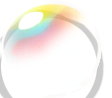
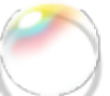
Collision of candy and bubble work

diff --git a/src/World.cpp b/src/World.cpp
@@ -77,7 +77,7 @@ void World::handleCollisions()
 			}
 			if(this->checkCollision(m_gameObjects[index1], m_gameObjects[index2]))
 			{
-				auto collisionsFunc = lookup(typeid(m_gameObjects[index1]), typeid(m_gameObjects[index2]));
+				auto collisionsFunc = lookup(typeid(*m_gameObjects[index1]), typeid(*m_gameObjects[index2]));
 
 				if (collisionsFunc != nullptr)
 				{
@@ -93,22 +93,38 @@ bool World::checkCollision(std::shared_ptr<GameObject> object1, std::shared_ptr<
 	b2Body* bodyA = object1->getBody();
 	b2Body* bodyB = object2->getBody();
 
-
 	if (bodyA && bodyB)
 	{
-		for (b2ContactEdge* edge = bodyA->GetContactList(); edge; edge = edge->next) {
+		// Check contacts of bodyA
+		for (b2ContactEdge* edge = bodyA->GetContactList(); edge; edge = edge->next)
+		{
 			b2Contact* contact = edge->contact;
 			b2Body* contactBodyA = contact->GetFixtureA()->GetBody();
 			b2Body* contactBodyB = contact->GetFixtureB()->GetBody();
 
-			// Use the helper function to check if the bodies are in contact
-			if (isContactBetween(contactBodyA, contactBodyB, bodyA, bodyB)) {
+			if ((contactBodyA == bodyA && contactBodyB == bodyB) || (contactBodyA == bodyB && contactBodyB == bodyA))
+			{
+				return true;
+			}
+		}
+
+		// Check contacts of bodyB
+		for (b2ContactEdge* edge = bodyB->GetContactList(); edge; edge = edge->next)
+		{
+			b2Contact* contact = edge->contact;
+			b2Body* contactBodyA = contact->GetFixtureA()->GetBody();
+			b2Body* contactBodyB = contact->GetFixtureB()->GetBody();
+
+			if ((contactBodyA == bodyA && contactBodyB == bodyB) || (contactBodyA == bodyB && contactBodyB == bodyA))
+			{
 				return true;
 			}
 		}
 	}
+
 	return false;
 }
+
 
 bool World::isContactBetween(b2Body* body1, b2Body* body2, b2Body* checkBodyA, b2Body* checkBodyB) {
 	return (body1 == checkBodyA && body2 == checkBodyB) || (body1 == checkBodyB && body2 == checkBodyA);

diff --git a/src/GameObjects/Bubble.cpp b/src/GameObjects/Bubble.cpp
@@ -5,9 +5,9 @@ Bubble::Bubble(const Data& ObjectData, b2World& world, const sf::Texture& textur
     //TODO CHANGE SETTINGS IF NEEDED
 
     this->m_bodyDef.type = b2_staticBody; // Set the body type to dynamic
-    this->m_bodyDef.position.Set(ObjectData.m_pos.x / SCALE , ObjectData.m_pos.y / SCALE); // Set the initial position
+    this->m_bodyDef.position.Set(ObjectData.m_pos.x / SCALE , (WINDOW_MANAGER_HEIGHT - ObjectData.m_pos.y) / SCALE); // Set the initial position
     this->m_bodyDef.angle = 0.0f; // Set the initial angle
-    this->m_bodyDef.linearVelocity.Set(2.0f, 0.0f); // Set the initial linear velocity
+    this->m_bodyDef.linearVelocity.Set(0.0f, 0.0f); // Set the initial linear velocity
     this->m_bodyDef.angularVelocity = 0.0f; // Set the initial angular velocity
     this->m_bodyDef.linearDamping = 0.0f; // Set the linear damping
     this->m_bodyDef.angularDamping = 0.0f; // Set the angular damping

diff --git a/src/GameObjects/Candy.cpp b/src/GameObjects/Candy.cpp
@@ -5,7 +5,8 @@ Candy::Candy(const Data& ObjectData, b2World& world, const sf::Texture& texture)
     //TODO CHANGE SETTINGS IF NEEDED
 
     this ->m_bodyDef.type = b2_dynamicBody; // Set the body type to dynamic
-    this->m_bodyDef.position.Set(ObjectData.m_pos.x / SCALE, ObjectData.m_pos.y /SCALE); // Set the initial position
+    this->m_bodyDef.position.Set(ObjectData.m_pos.x / SCALE, 
+        (WINDOW_MANAGER_HEIGHT - ObjectData.m_pos.y) /SCALE); // Set the initial position
     this->m_bodyDef.angle = 0.0f; // Set the initial angle
     this->m_bodyDef.linearVelocity.Set(0.0f, 0.0f); // Set the initial linear velocity
     this->m_bodyDef.angularVelocity = 0.0f; // Set the initial angular velocity

diff --git a/src/GameObjects/PhysicalObject.cpp b/src/GameObjects/PhysicalObject.cpp
@@ -12,6 +12,8 @@ void PhysicalObject::initBody(b2World& world,
 {
 	m_body = world.CreateBody(&bodyDef);
 	this->m_body->CreateFixture(&fixtureDef);
+	auto pos = this->m_body->GetPosition();
+	this->setPosition(pos.x, pos.y );
 	
 }
 
@@ -21,7 +23,7 @@ void PhysicalObject::update()
 	float angle = m_body->GetAngle();
 
 	// Convert Box2D position (meters) to SFML position (pixels)
-	this->setPosition(position.x * SCALE, position.y * SCALE * -1);
+	this->setPosition(position.x * SCALE, WINDOW_MANAGER_HEIGHT - position.y * SCALE);
 	this->setRotation(angle * 180.0f / b2_pi);
 }
 

diff --git a/src/GameObjects/GameObject.cpp b/src/GameObjects/GameObject.cpp
@@ -15,7 +15,7 @@ sf::Vector2f GameObject::getPosition() const
 
 void GameObject::setPosition(float posX, float posY)
 {
-	this->m_sprite.setPosition(posX, posY);
+	this->m_sprite.setPosition(sf::Vector2f(posX, posY));
 }
 
 void GameObject::setRotation(float angle)
